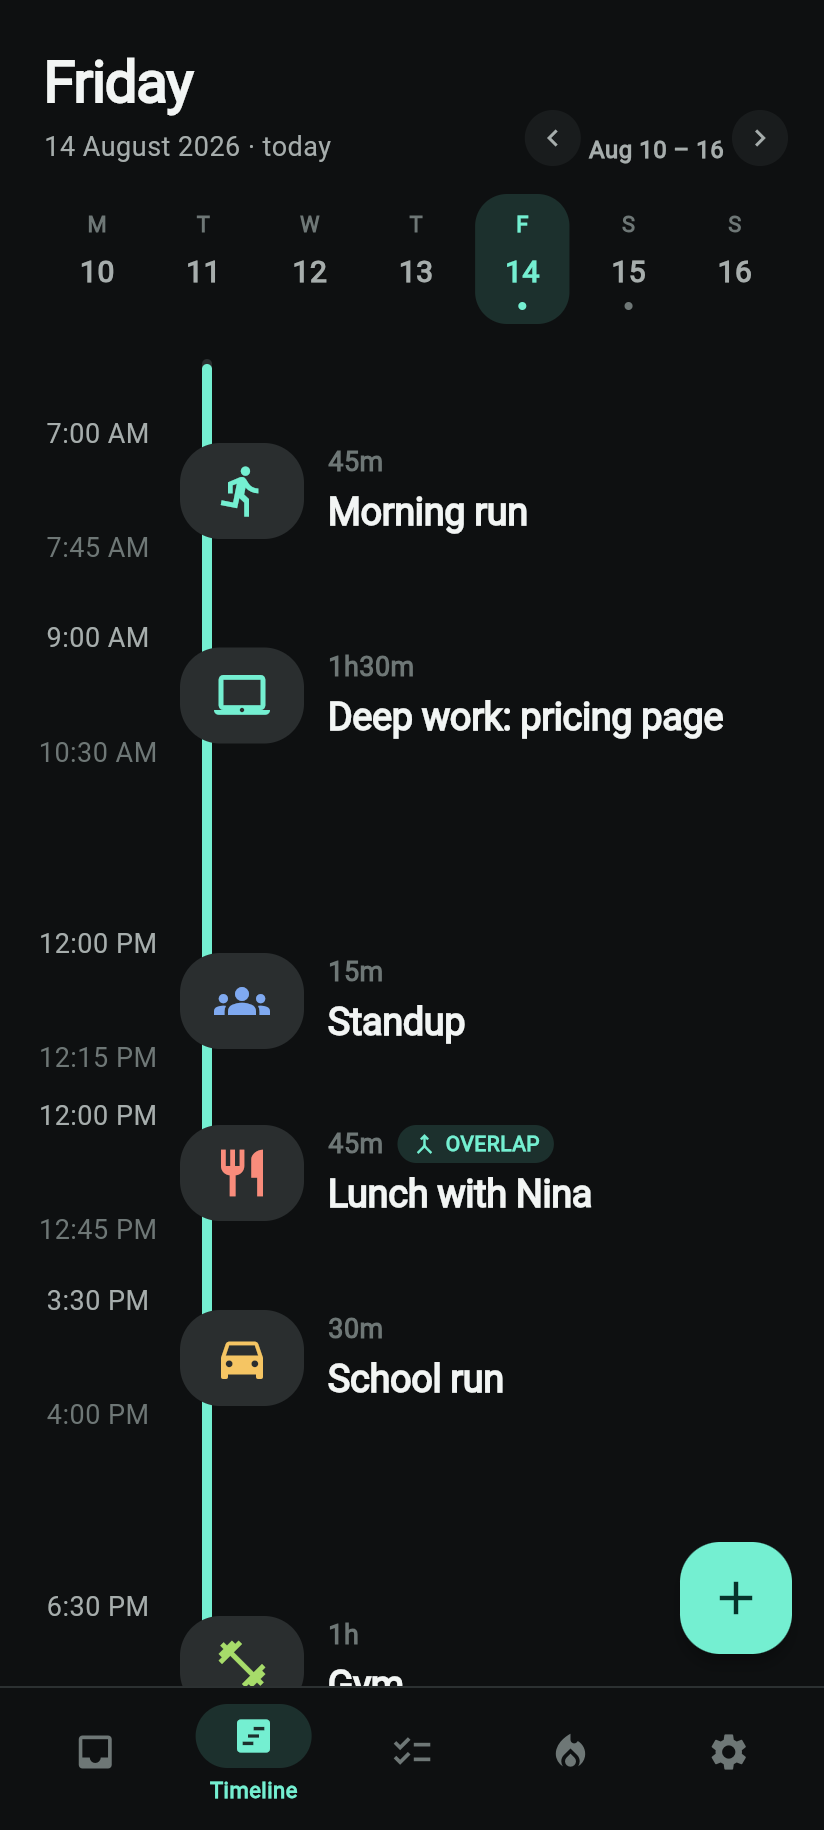
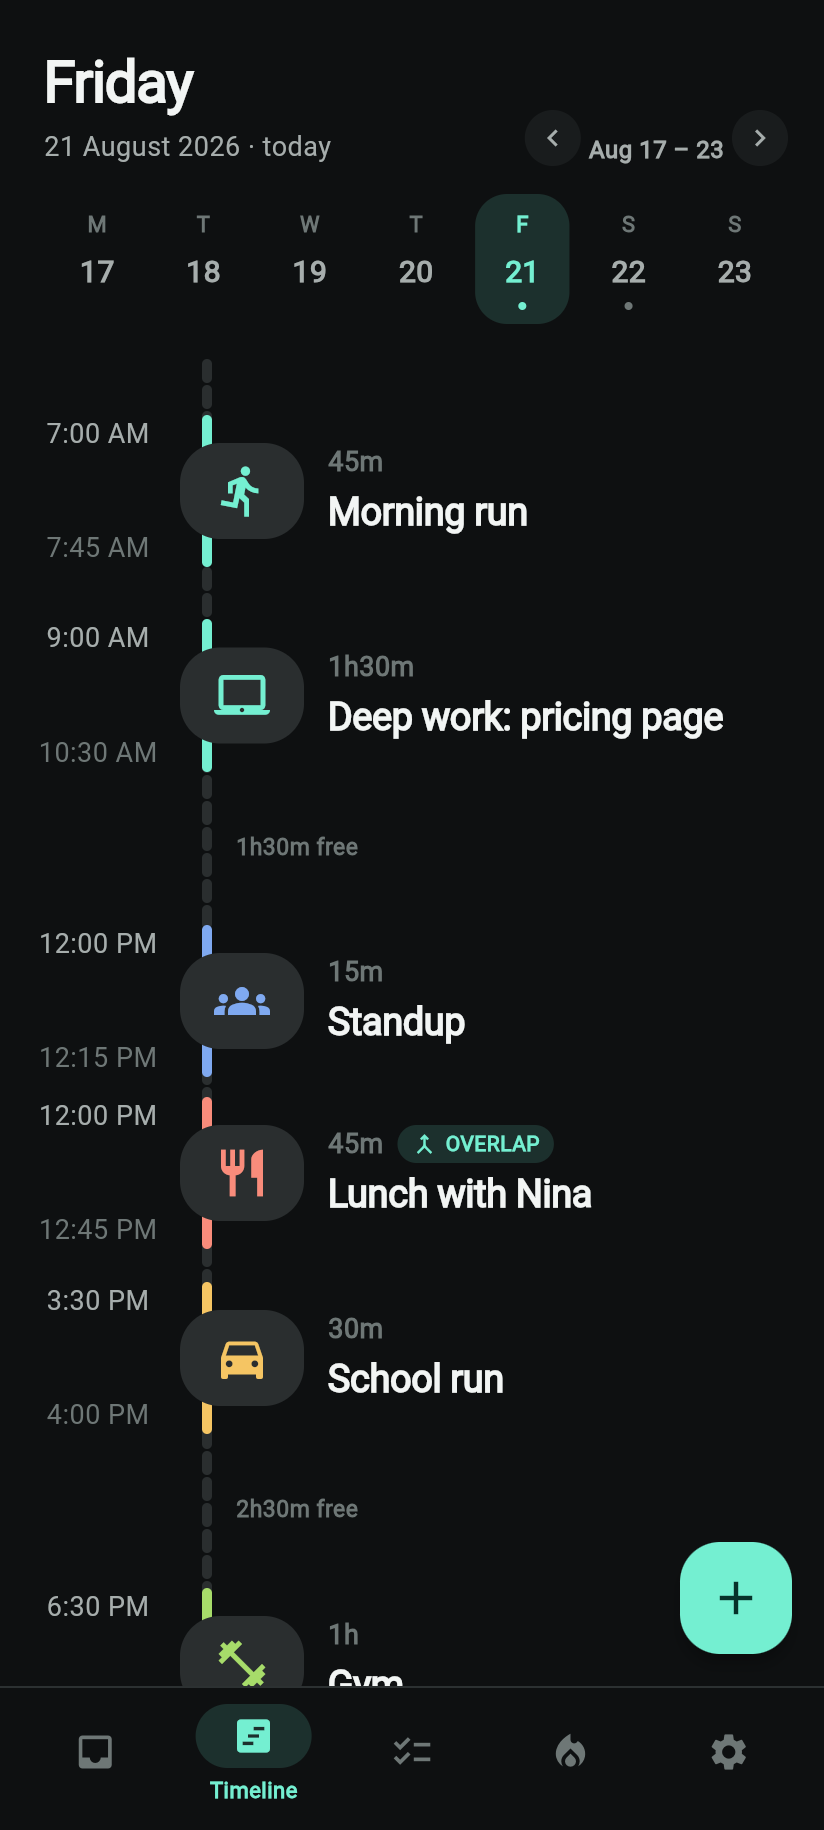
Show a block's span and the pause on the timeline rail
The rail was one dashed line with a solid accent bar laid over everything
from the start of the day up to now, so a block's extent and the free time
between blocks looked identical — a single unbroken line.

The rail now goes solid, in the block's own colour, for exactly as long as
that block runs, and stays dashed in between. Each gap tall enough to read
says how long it is.

diff --git a/lib/screens/timeline.dart b/lib/screens/timeline.dart
@@ -201,21 +201,46 @@ class _TimelineScreenState extends State<TimelineScreen> {
       ),
     ];
 
-    if (store.selectedIsToday && !store.classicTimeline) {
-      final past = ((store.now - layout.origin) * layout.ppm).clamp(0, layout.trackHeight).toDouble();
+    // The rail goes solid for exactly as long as a block runs, so you can read
+    // a block's span off the line itself. What stays dashed in between is the
+    // free time. Filling the whole rail up to now, as this used to, flattened
+    // both into one unbroken line.
+    final palette = c.isDark ? kBlockColorsDark : kBlockColorsLight;
+    for (final row in layout.rows) {
       children.add(Positioned(
         left: 83,
-        top: 0,
+        top: row.y,
         width: 5,
-        height: past,
+        height: row.height,
         child: DecoratedBox(
-          decoration: BoxDecoration(color: c.acc, borderRadius: BorderRadius.circular(3)),
+          decoration: BoxDecoration(
+            color: store.blockColorIcons ? palette[row.block.color % palette.length] : c.acc,
+            borderRadius: BorderRadius.circular(3),
+          ),
         ),
       ));
     }
 
     for (final row in layout.rows) {
       children.add(_row(store, c, layout, row));
+    }
+
+    // Say how long each pause actually is, where the gap is tall enough to read.
+    if (!store.classicTimeline) {
+      for (var i = 1; i < layout.rows.length; i++) {
+        final prev = layout.rows[i - 1];
+        final next = layout.rows[i];
+        final free = next.block.start - prev.block.end;
+        final top = prev.y + prev.height;
+        final gap = next.y - top;
+        if (free <= 0 || gap < 34) continue;
+        children.add(Positioned(
+          left: 100,
+          top: top + gap / 2 - 9,
+          child: Text('${durLabel(free)} free',
+              style: TextStyle(fontSize: 11.5, fontWeight: FontWeight.w600, color: c.txt3)),
+        ));
+      }
     }
 
     if (store.selectedIsToday && !store.classicTimeline && store.now >= layout.origin && store.now <= layout.last + 30) {
